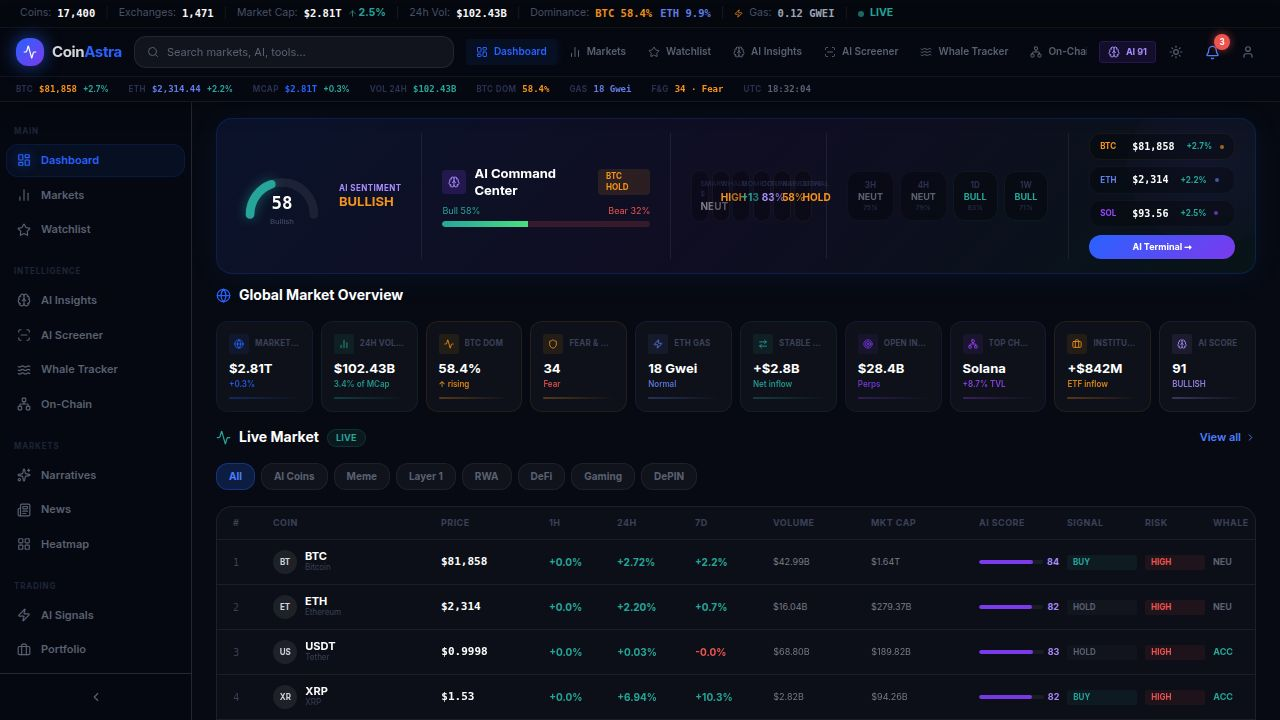
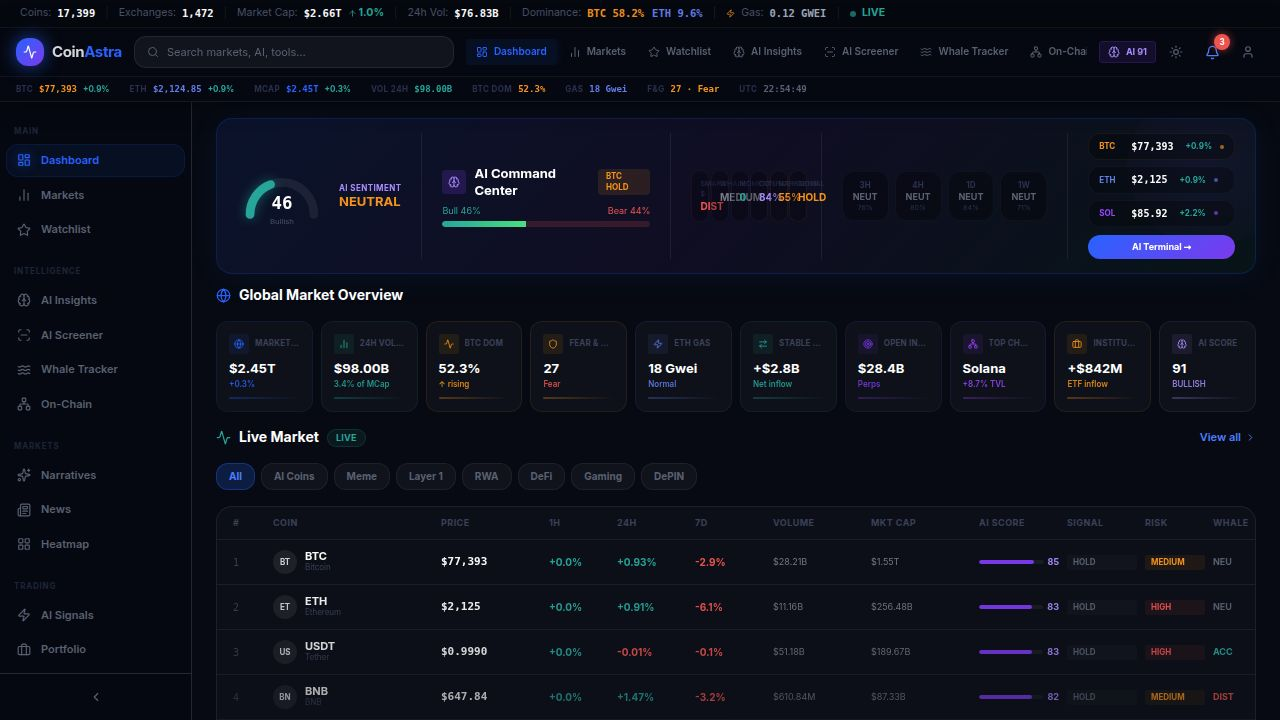
Expand market coin listings to include all available cryptocurrencies
Update pagination limits in the Markets page to display all available cryptocurrencies from CoinGecko, increasing the maximum page count and adjusting UI elements to reflect the expanded range.

Replit-Commit-Author: Agent
Replit-Commit-Session-Id: 53187b70-f347-41f0-a8b2-05d6570ca7b5
Replit-Commit-Checkpoint-Type: full_checkpoint
Replit-Commit-Event-Id: afb35113-0039-4896-99bc-cbf0ccf21013
Replit-Commit-Screenshot-Url: https://storage.googleapis.com/screenshot-production-us-central1/7512008b-b6ff-4a2e-84ee-b6faa448a299/53187b70-f347-41f0-a8b2-05d6570ca7b5/dbXL8UN
Replit-Helium-Checkpoint-Created: true

diff --git a/artifacts/xogsideiq/src/pages/Markets.tsx b/artifacts/xogsideiq/src/pages/Markets.tsx
@@ -728,33 +728,48 @@ export default function Markets() {
           )}
 
           {/* Mobile Pagination */}
-          {!isError && !isLoading && filtered.length > 0 && (
-            <div className="flex items-center justify-between px-4 py-4 mx-4 my-4 rounded-2xl"
+          {!isError && !effectiveLoading && !isSearchMode && filtered.length > 0 && !isCategoryMode && (
+            <div className="px-4 py-4 mx-4 my-4 rounded-2xl"
               style={{ background:"rgba(13,17,26,0.8)", border:"1px solid rgba(255,255,255,0.06)" }}>
-              <button onClick={() => handlePage(Math.max(1,page-1))} disabled={page===1}
-                className="flex items-center gap-1.5 px-4 h-10 rounded-xl text-[12px] font-bold disabled:opacity-30 transition-all"
-                style={{ background:"rgba(42,46,57,0.8)", border:"1px solid rgba(255,255,255,0.08)", color:"#a0a8bc" }}>
-                <ChevronLeft size={16}/> Prev
-              </button>
-              <div className="flex items-center gap-1.5">
-                {[1,2,3,4,5].map(p => (
-                  <button key={p} onClick={() => handlePage(p)}
-                    className="w-9 h-9 rounded-xl text-[12px] font-bold transition-all"
-                    style={{
-                      background: page===p ? "rgba(41,98,255,0.25)" : "rgba(42,46,57,0.6)",
-                      color: page===p ? "#4d7fff" : "#5a6072",
-                      border: page===p ? "1px solid rgba(41,98,255,0.45)" : "1px solid rgba(255,255,255,0.07)",
-                      boxShadow: page===p ? "0 0 16px rgba(41,98,255,0.3)" : "none",
-                    }}>
-                    {p}
-                  </button>
-                ))}
+              <div className="text-center text-[9px] mb-2 font-mono" style={{ color:"#3a4058" }}>
+                Page {page} of 80 · 20,000+ coins total
               </div>
-              <button onClick={() => handlePage(page+1)}
-                className="flex items-center gap-1.5 px-4 h-10 rounded-xl text-[12px] font-bold transition-all"
-                style={{ background:"rgba(41,98,255,0.18)", border:"1px solid rgba(41,98,255,0.35)", color:"#4d7fff" }}>
-                Next <ChevronRight size={16}/>
-              </button>
+              <div className="flex items-center justify-between">
+                <button onClick={() => handlePage(Math.max(1,page-1))} disabled={page===1}
+                  className="flex items-center gap-1.5 px-4 h-10 rounded-xl text-[12px] font-bold disabled:opacity-30 transition-all"
+                  style={{ background:"rgba(42,46,57,0.8)", border:"1px solid rgba(255,255,255,0.08)", color:"#a0a8bc" }}>
+                  <ChevronLeft size={16}/> Prev
+                </button>
+                <div className="flex items-center gap-1">
+                  {(() => {
+                    const maxPage = 80;
+                    const pages: number[] = [];
+                    if (page > 2) pages.push(1);
+                    for (let p = Math.max(1, page-1); p <= Math.min(maxPage, page+1); p++) pages.push(p);
+                    if (page < maxPage-1) pages.push(maxPage);
+                    return pages.filter((p,i,a) => a.indexOf(p)===i).map((p,i,a) => (
+                      <React.Fragment key={p}>
+                        {i>0 && a[i-1]!==p-1 && <span className="text-[#3a4058] text-[10px] px-0.5">…</span>}
+                        <button onClick={() => handlePage(p)}
+                          className="w-9 h-9 rounded-xl text-[11px] font-bold transition-all"
+                          style={{
+                            background: page===p ? "rgba(41,98,255,0.25)" : "rgba(42,46,57,0.6)",
+                            color: page===p ? "#4d7fff" : "#5a6072",
+                            border: page===p ? "1px solid rgba(41,98,255,0.45)" : "1px solid rgba(255,255,255,0.07)",
+                            boxShadow: page===p ? "0 0 16px rgba(41,98,255,0.3)" : "none",
+                          }}>
+                          {p}
+                        </button>
+                      </React.Fragment>
+                    ));
+                  })()}
+                </div>
+                <button onClick={() => handlePage(Math.min(80, page+1))} disabled={page===80}
+                  className="flex items-center gap-1.5 px-4 h-10 rounded-xl text-[12px] font-bold disabled:opacity-30 transition-all"
+                  style={{ background:"rgba(41,98,255,0.18)", border:"1px solid rgba(41,98,255,0.35)", color:"#4d7fff" }}>
+                  Next <ChevronRight size={16}/>
+                </button>
+              </div>
             </div>
           )}
 
@@ -1030,11 +1045,11 @@ export default function Markets() {
             )}
 
             {/* Tablet Pagination */}
-            {!isError && !isLoading && filtered.length > 0 && (
+            {!isError && !effectiveLoading && !isSearchMode && filtered.length > 0 && !isCategoryMode && (
               <div className="flex items-center justify-between mt-4 px-4 py-3 rounded-2xl"
                 style={{ background:"rgba(13,17,26,0.7)", border:"1px solid rgba(255,255,255,0.06)" }}>
                 <span className="text-[11px]" style={{ color:"#5a6072" }}>
-                  {filtered.length} coins · Page {page}
+                  Page {page} of 80 · {filtered.length} coins
                 </span>
                 <div className="flex items-center gap-2">
                   <button onClick={() => handlePage(Math.max(1,page-1))} disabled={page===1}
@@ -1042,17 +1057,27 @@ export default function Markets() {
                     style={{ background:"rgba(42,46,57,0.8)", border:"1px solid rgba(255,255,255,0.08)", color:"#a0a8bc" }}>
                     <ChevronLeft size={14}/> Prev
                   </button>
-                  {[1,2,3,4,5].map(p => (
-                    <button key={p} onClick={() => handlePage(p)}
-                      className="w-8 h-8 rounded-xl text-[11px] font-bold transition-all"
-                      style={{ background:page===p?"rgba(41,98,255,0.25)":"rgba(42,46,57,0.6)",
-                        color:page===p?"#4d7fff":"#5a6072",
-                        border:page===p?"1px solid rgba(41,98,255,0.45)":"1px solid rgba(255,255,255,0.06)" }}>
-                      {p}
-                    </button>
-                  ))}
-                  <button onClick={() => handlePage(page+1)}
-                    className="flex items-center gap-1 px-3 h-8 rounded-xl text-[11px] font-semibold transition-all"
+                  {(() => {
+                    const maxPage = 80;
+                    const pages: number[] = [];
+                    if (page > 2) pages.push(1);
+                    for (let p = Math.max(1, page-1); p <= Math.min(maxPage, page+1); p++) pages.push(p);
+                    if (page < maxPage-1) pages.push(maxPage);
+                    return pages.filter((p,i,a) => a.indexOf(p)===i).map((p,i,a) => (
+                      <React.Fragment key={p}>
+                        {i>0 && a[i-1]!==p-1 && <span className="text-[#3a4058] text-xs">…</span>}
+                        <button onClick={() => handlePage(p)}
+                          className="w-8 h-8 rounded-xl text-[11px] font-bold transition-all"
+                          style={{ background:page===p?"rgba(41,98,255,0.25)":"rgba(42,46,57,0.6)",
+                            color:page===p?"#4d7fff":"#5a6072",
+                            border:page===p?"1px solid rgba(41,98,255,0.45)":"1px solid rgba(255,255,255,0.06)" }}>
+                          {p}
+                        </button>
+                      </React.Fragment>
+                    ));
+                  })()}
+                  <button onClick={() => handlePage(Math.min(80, page+1))} disabled={page===80}
+                    className="flex items-center gap-1 px-3 h-8 rounded-xl text-[11px] font-semibold disabled:opacity-30 transition-all"
                     style={{ background:"rgba(41,98,255,0.18)", border:"1px solid rgba(41,98,255,0.35)", color:"#4d7fff" }}>
                     Next <ChevronRight size={14}/>
                   </button>
@@ -1470,9 +1495,9 @@ export default function Markets() {
               className="flex flex-col sm:flex-row items-center justify-between mt-5 gap-3 px-4 py-3 rounded-2xl"
               style={{ background:"rgba(13,17,26,0.7)", border:"1px solid rgba(255,255,255,0.05)" }}>
               <p className="text-[11px]" style={{ color:"#5a6072" }}>
-                Page <span className="font-bold text-white">{page}</span> of 40 ·{" "}
-                Showing <span className="font-bold text-white">{filtered.length}</span> coins ·{" "}
-                <span style={{ color:"#4a5068" }}>Up to 10,000 coins across all pages</span>
+                Page <span className="font-bold text-white">{page}</span> of 80 ·{" "}
+                Showing <span className="font-bold text-white">{filtered.length}</span> coins per page ·{" "}
+                <span style={{ color:"#4a5068" }}>All 20,000+ CoinGecko coins available</span>
               </p>
               <div className="flex items-center gap-2">
                 <button onClick={() => handlePage(Math.max(1,page-1))} disabled={page===1}
@@ -1481,7 +1506,7 @@ export default function Markets() {
                   <ChevronLeft size={16}/> Prev
                 </button>
                 {(() => {
-                  const maxPage = 40;
+                  const maxPage = 80;
                   const pages: number[] = [];
                   if (page > 3) pages.push(1);
                   for (let p = Math.max(1, page-2); p <= Math.min(maxPage, page+2); p++) pages.push(p);
@@ -1500,7 +1525,7 @@ export default function Markets() {
                     </React.Fragment>
                   ));
                 })()}
-                <button onClick={() => handlePage(Math.min(40, page+1))} disabled={page===40}
+                <button onClick={() => handlePage(Math.min(80, page+1))} disabled={page===80}
                   className="flex items-center gap-1.5 px-3 h-9 rounded-xl text-[11px] font-semibold transition-all disabled:opacity-25"
                   style={{ background:"rgba(41,98,255,0.18)", border:"1px solid rgba(41,98,255,0.35)", color:"#4d7fff",
                     boxShadow:"0 0 14px rgba(41,98,255,0.15)" }}>